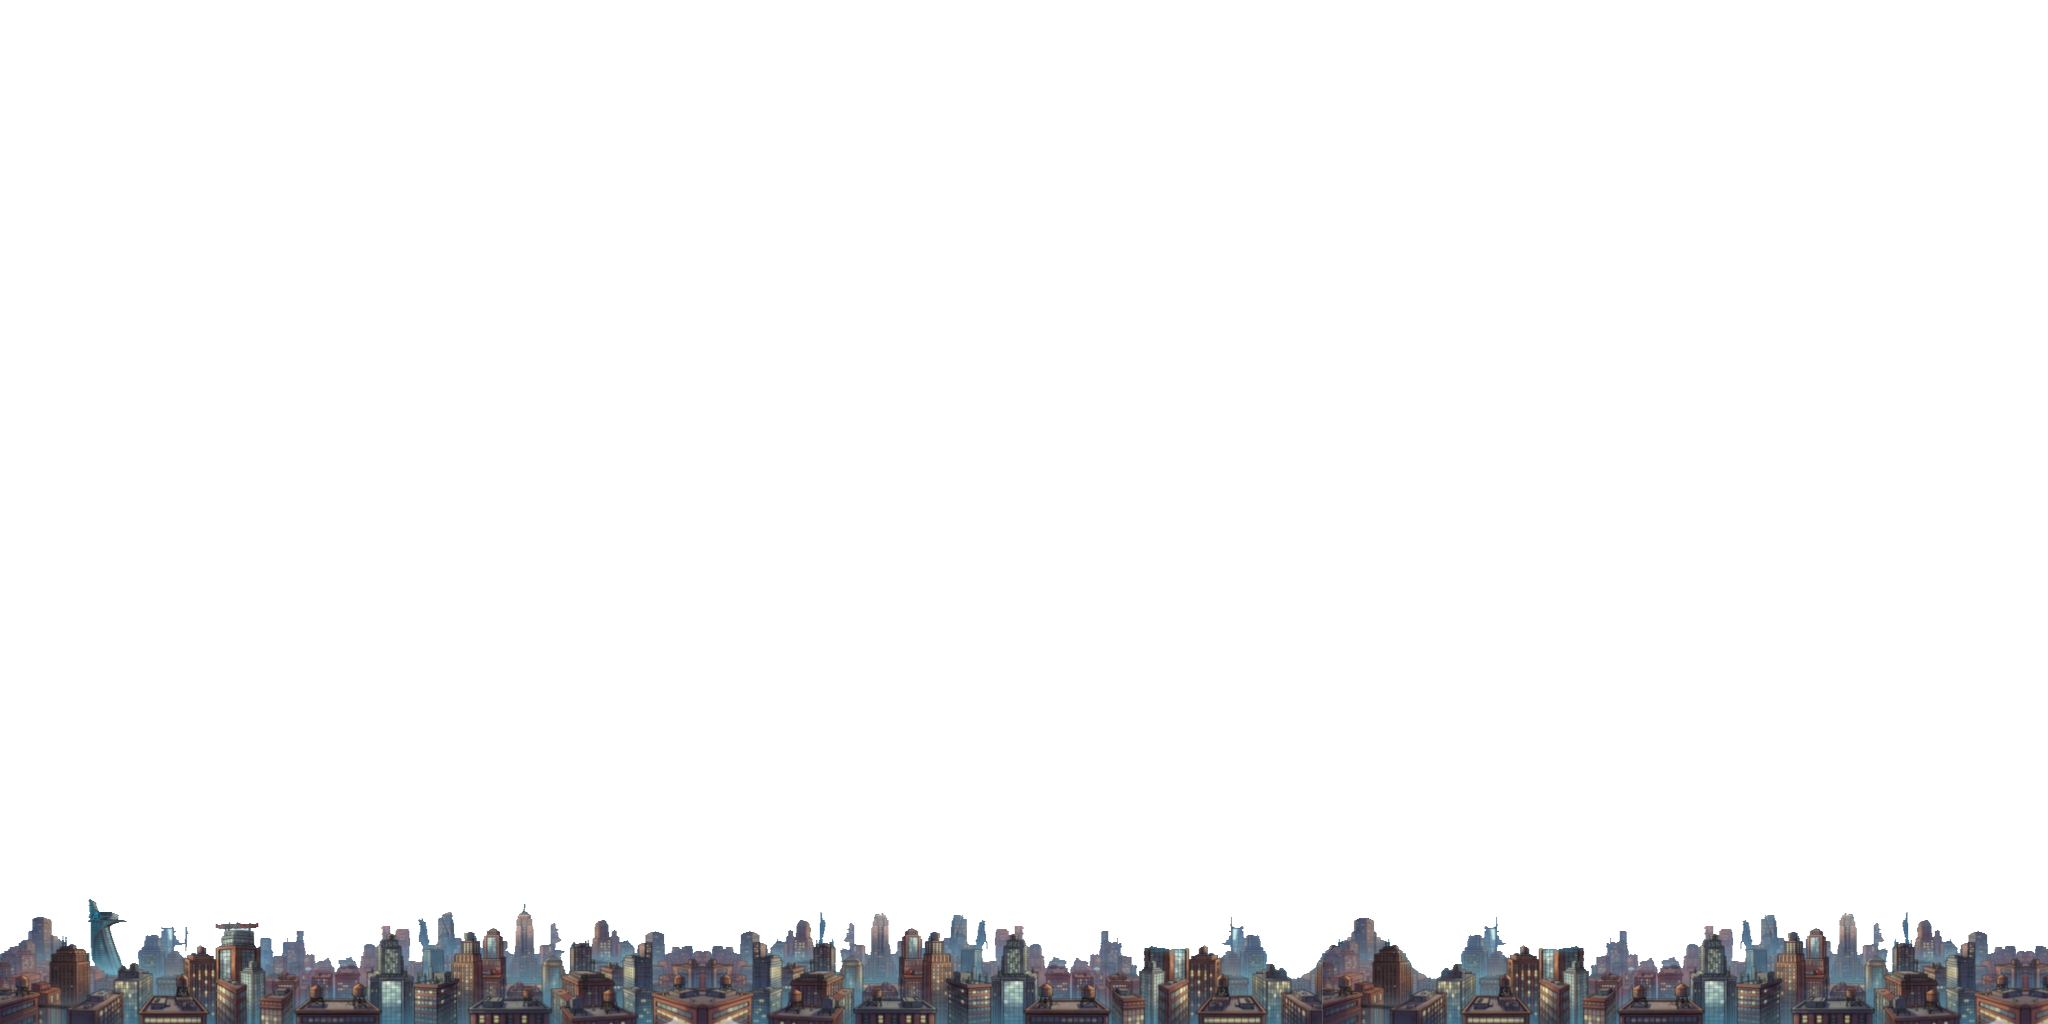
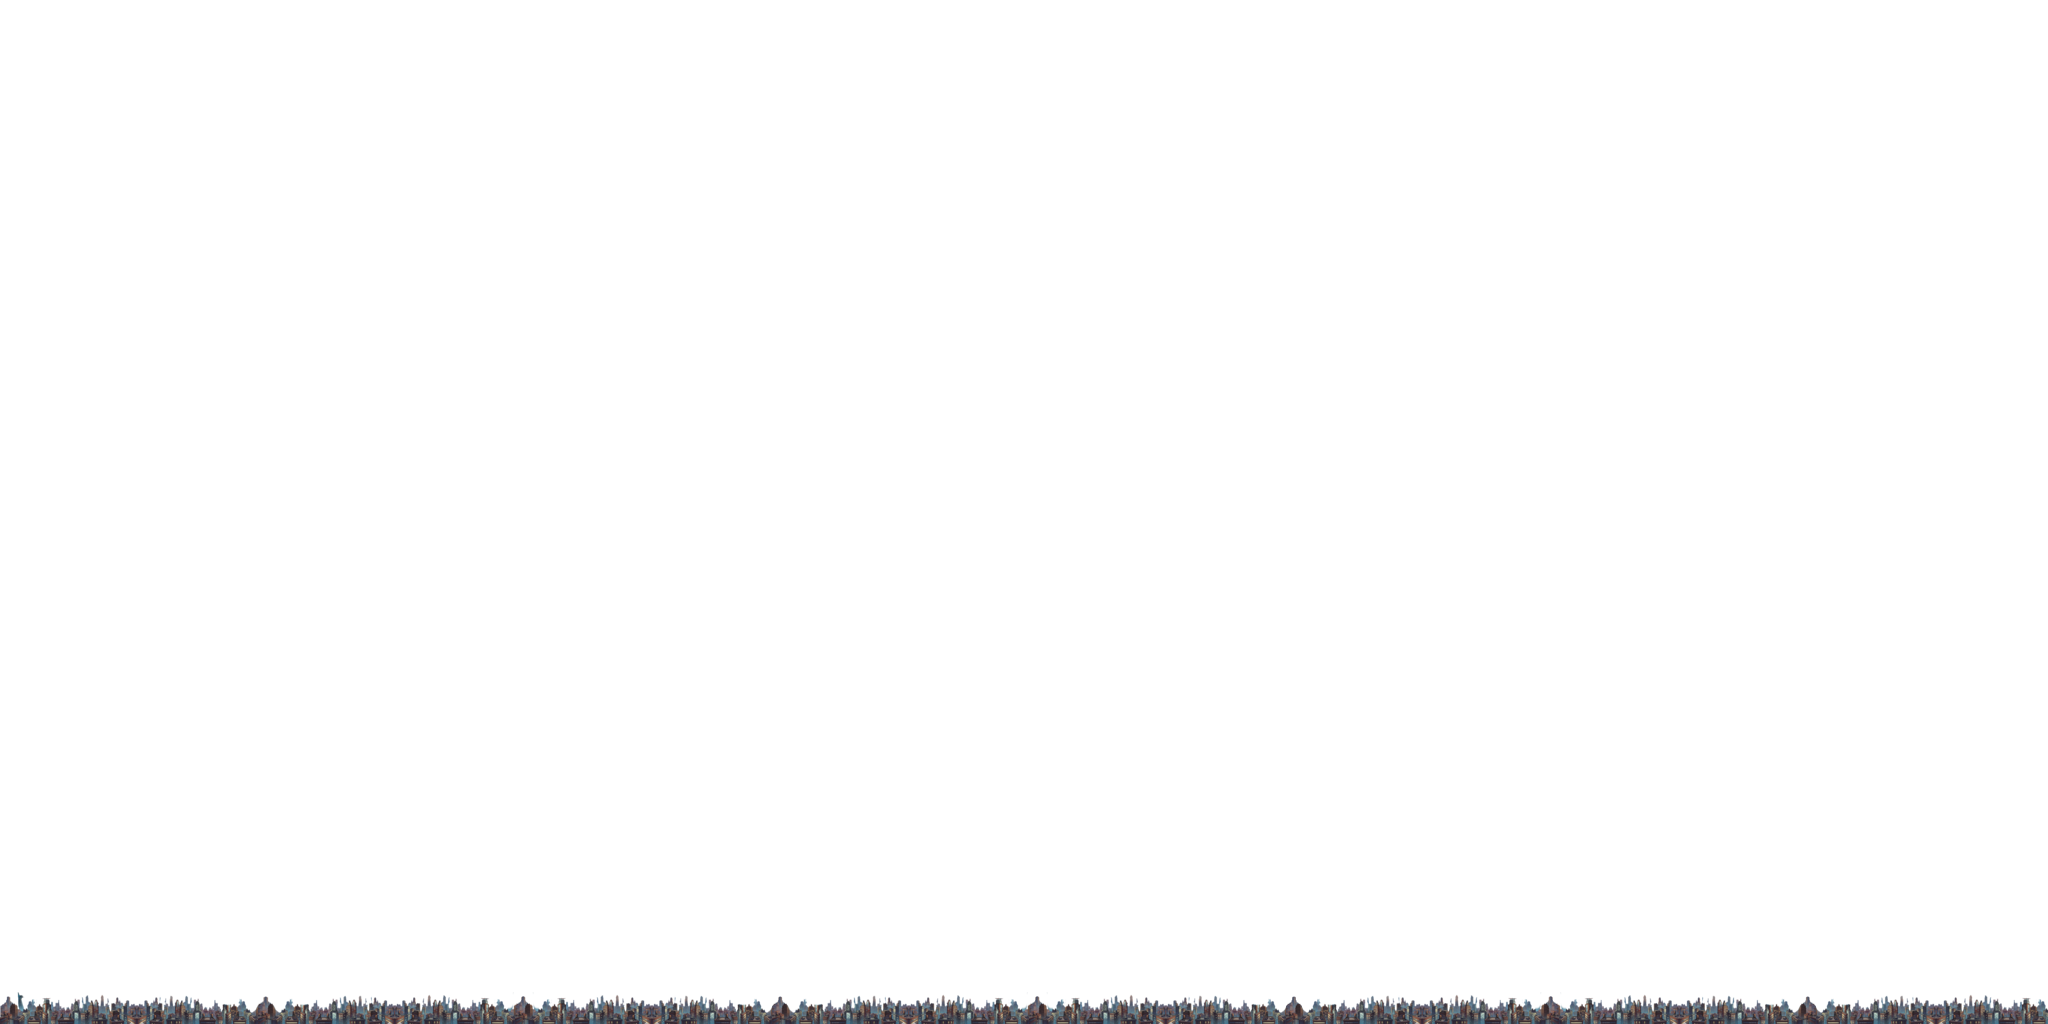
UpkMeshScan 2.38.2: skydomes at stock position, ICP cubemap trim, new skyline
- Hightown: sky drop removed (both zones' domes at their stock position)
- ICP: LOD materials' unused chrome reflection cubemap swapped for the
  water's docks cubemap (-0.8 MB; water copied first); Kurt's updated
  skyline PNG

Changed region(s): [[0.0, 0.875, 1.0, 1.0]]

diff --git a/ZoneBuilds.cs b/ZoneBuilds.cs
@@ -103,6 +103,8 @@ static class ZoneBuilds
             // --scale 0.6 (0.7 read a little bright next to the real buildings). --lod-shrink pulls every face 6 units in
             // along its normal and --lod-drop 4 lowers it, so each LOD surface sits just inside the real one (ICP's cells
             // are still drawn past 3500: coincident surfaces z-fought).
+            // The water first: its cubemap (brooklyn_docks_cubea, ~68 KB) also stands in for the LOD materials' reflection slot.
+            ["--copy-export", lib, water, Target, "--cut", "physmaterial"],
             ["--import-texture", Target, template, "icp_lod_emissive_spec", Data + "lod_emissive_spec.dds"],
             ["--import-texture", Target, template, "icp_lod_flat_nrml", Data + "lod_flat_nrml.dds"],
             .. Enumerable.Range(1, LodBundles).SelectMany(n => new[]
@@ -110,7 +112,9 @@ static class ZoneBuilds
                 new[] { "--import-texture", Target, template, $"icp_lod_bundle{n}_diff", Data + $"lod_bundle{n}_diff.dds" },
                 ["--copy-export", Library + "SCS__DailyRHighTownInvasionRegionL30_SF.upk", sf + "_mat", Target, "--cut", "physmaterial", "--rename", $"icp_lod_bundle{n}_mat",
                     "--replace-ref", sf + $"_diff=maptemplates.sky.icp_lod_bundle{n}_diff", "--replace-ref", sf + "_spec=maptemplates.sky.icp_lod_emissive_spec",
-                    "--replace-ref", sf + "_nrml=maptemplates.sky.icp_lod_flat_nrml"],
+                    "--replace-ref", sf + "_nrml=maptemplates.sky.icp_lod_flat_nrml",
+                    // Reflection is off (spec B = 0), but the storefront's chrome cubemap (~790 KB) came along with it.
+                    "--replace-ref", "madripoor_hitown_trffcbarrier.madripoor_hitown_chromecuberef_mat=brooklyn_terrain.brooklyn_docks_cubea"],
             }),
             // MinDrawDistance 2500 (3500 left a small gap where the real cells had already streamed out).
             ["--add-cell-placeholders", Target, Data + "raster.fbx", "--from-live", "--min-draw", "2500",
@@ -120,16 +124,10 @@ static class ZoneBuilds
                 // The random middle block (two rows of 3 cells that swap between seeds): no building LOD there, or a
                 // swapped run would show warehouses in the wrong row. The ground plane still covers it.
                 "--lod-exclude-box", "2304,-1152,9216,3456"],
-            ["--copy-export", lib, water, Target, "--cut", "physmaterial"],
             // Water: the stock harbour water is terrain_flat_filler at -116 in the cells (removed from those tiles with
             // --remove-components, 2026-09-25), so two layers just under it (-121, -126: translucent, reads as depth), with
             // a hole over the two AIM Sub cells, which keep their own pit water at -205.
-            // No --sky-drop: the dome maps the photo's bottom rows (v 0.9..1) to 0..6 degrees above the horizon and v 0 to the
-            // poles (mirrored top/bottom; colour-band test 2026-09-26), so the city already sits on the horizon and any drop
-            // hides it. City size is set in the texture instead: ICP_Sky.dds (4096x2048) = ICP_Sky_photo.dds with its city
-            // rows (bottom 10%) squeezed into the bottom 2.5% (about 3 degrees tall), twice around below v 0.55 (small city) and once around above v
-            // 0.45 (no repeated cloud streaks where the copies converge toward the pole), crossfaded between; rows above v
-            // 0.25 flattened to their average colour (fading back to the photo by 0.40), so nothing pinches at the zenith.
+            // No --sky-drop: lowering the dome only sinks the horizon into the height fog (2026-09-26).
             ["--add-sky-placeholders", Target, "none", "--ground-z", "-121", "--ground-box", icpWater, "--ground-material", water, "--ground-grid", "4608"],
             // Sky (2026-09-27, Kurt's option A): the stock procedural sky and its moving clouds stay on the stock dome. Our city
             // skyline is an inner dome (80%: 2% z-fought at ~2M units) with a masked, two-sided, emissive copy of
@@ -238,7 +236,7 @@ static class ZoneBuilds
         else cells.AddRange(["--always-fbx", Data + "ground.fbx"]);
         steps.Add([.. cells]);
         steps.Add(["--copy-export", lib, water, Target, "--cut", "physmaterial"]);
-        steps.Add(["--add-sky-placeholders", Target, "none", "--ground-z", "-80", "--ground-box", boxes, "--ground-material", water, "--ground-grid", "4608", "--sky-drop", "0.2"]);
+        steps.Add(["--add-sky-placeholders", Target, "none", "--ground-z", "-80", "--ground-box", boxes, "--ground-material", water, "--ground-grid", "4608"]);
         steps.Add(["--set-property", Target, "maptemplates.sky.m_procedural_sky_daytime", "param:horizoncolor=0.0312,0.0857,0.1355",
             "param:zenithcolor=0,0.0312,0.0829", "param:rimcolor=0.5,0.3688,0.1631", "param:sun=5,3,1", "param:cloudbrightness=0.5"]);
         return steps;
